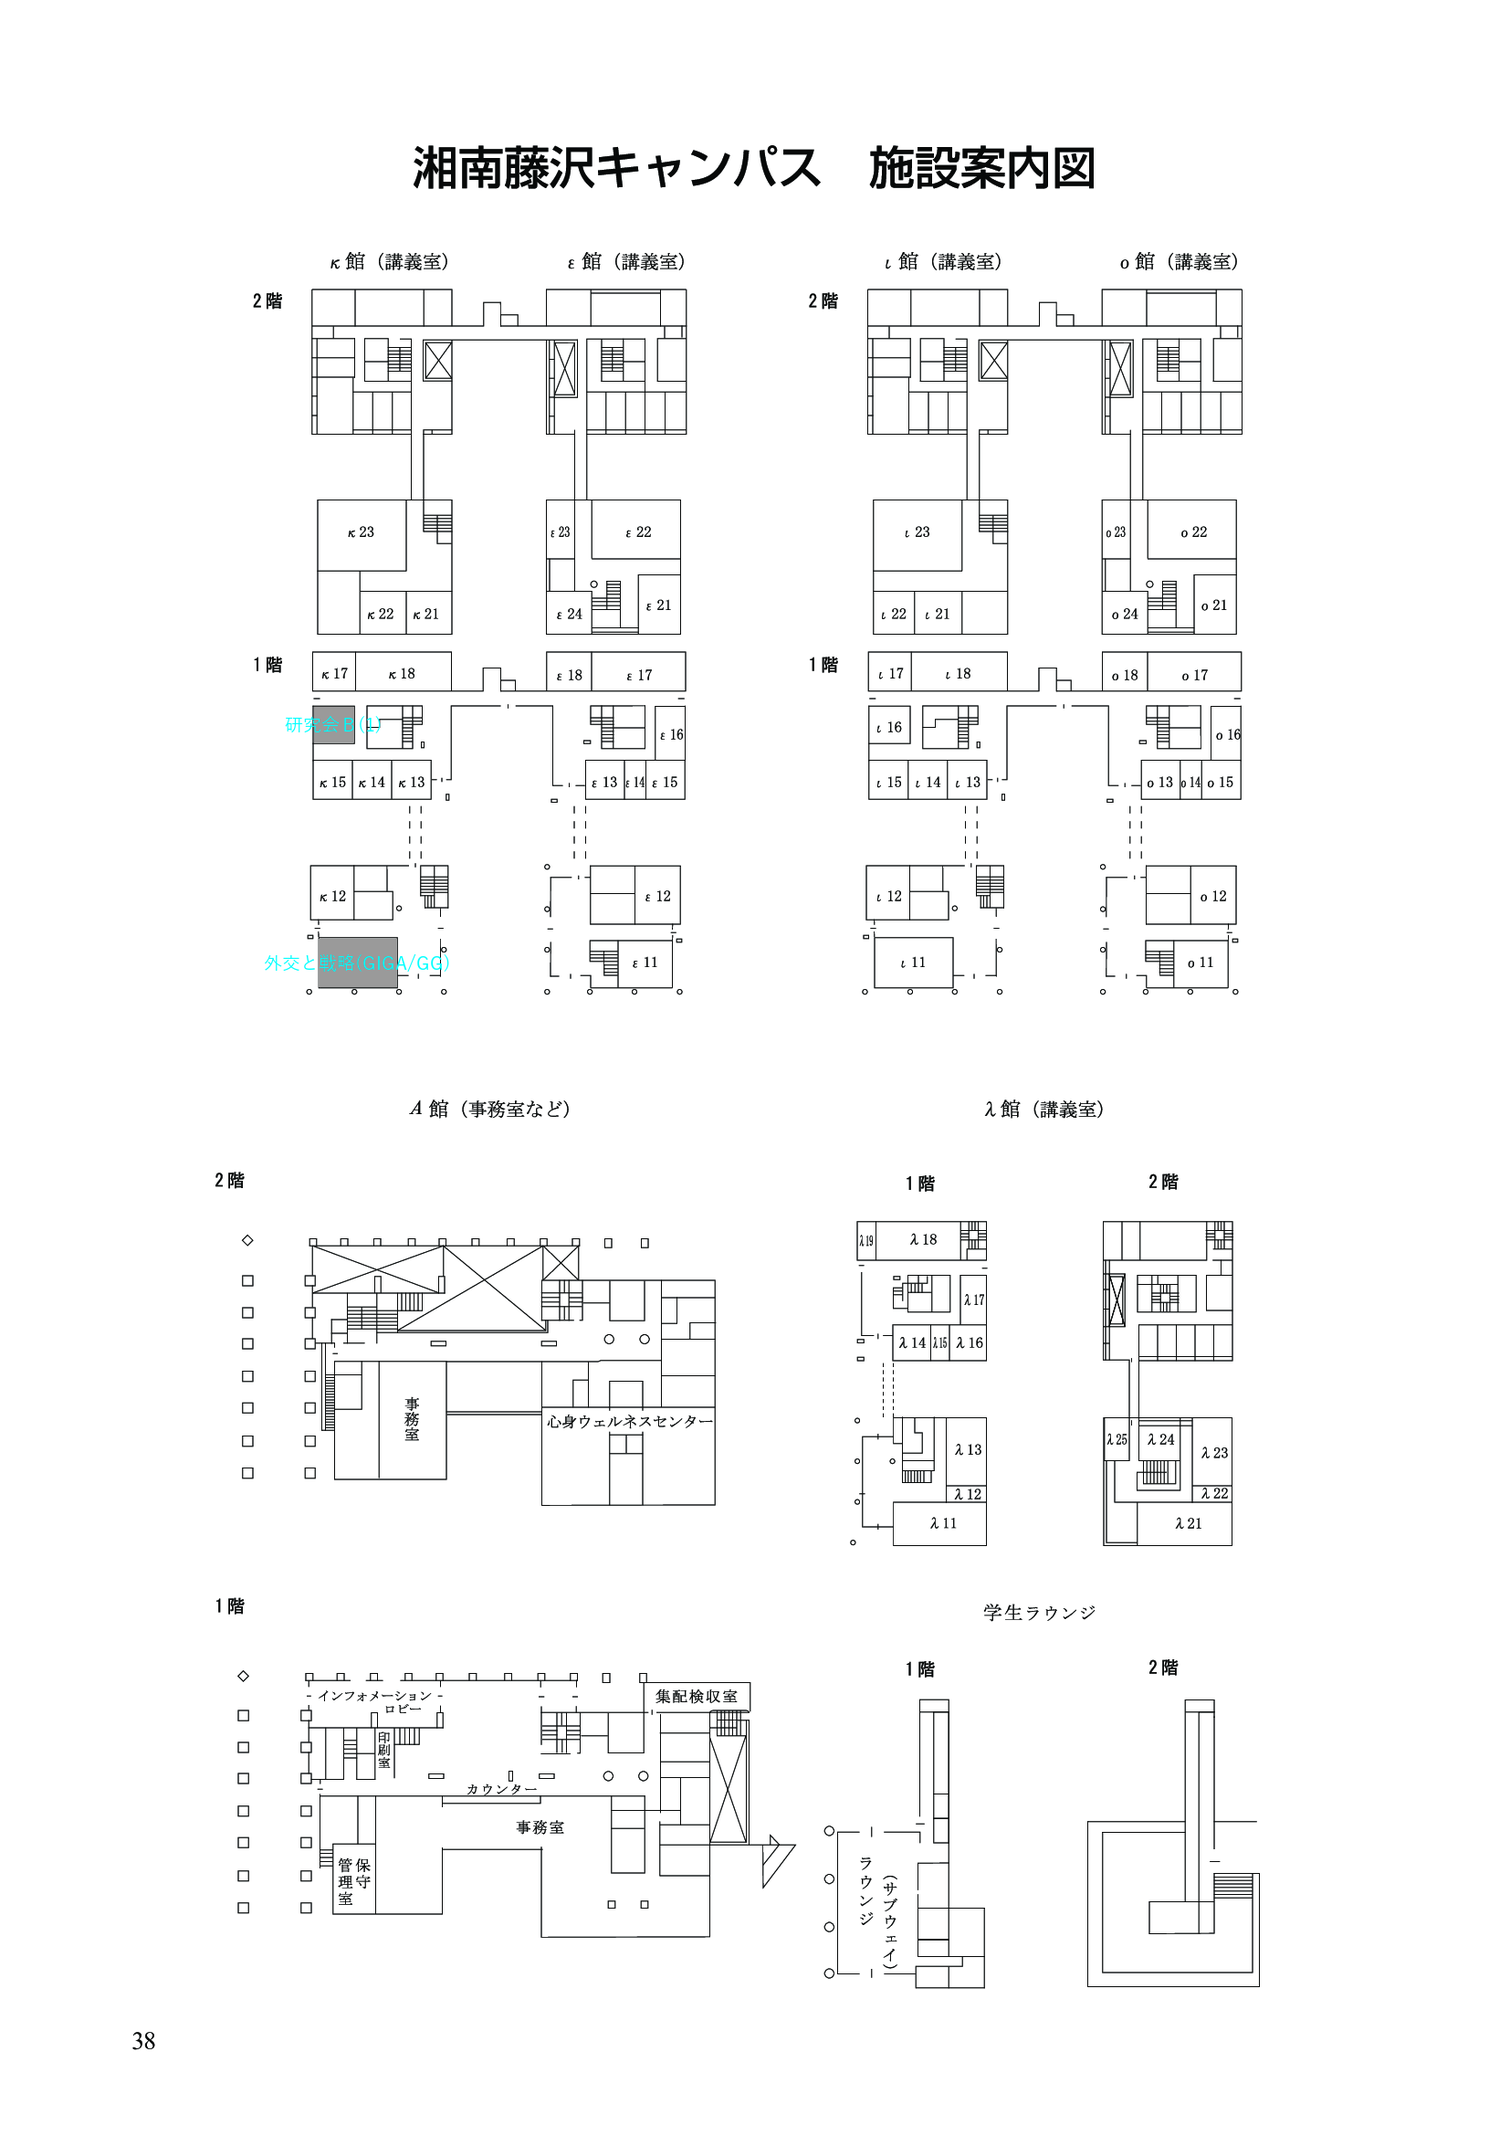
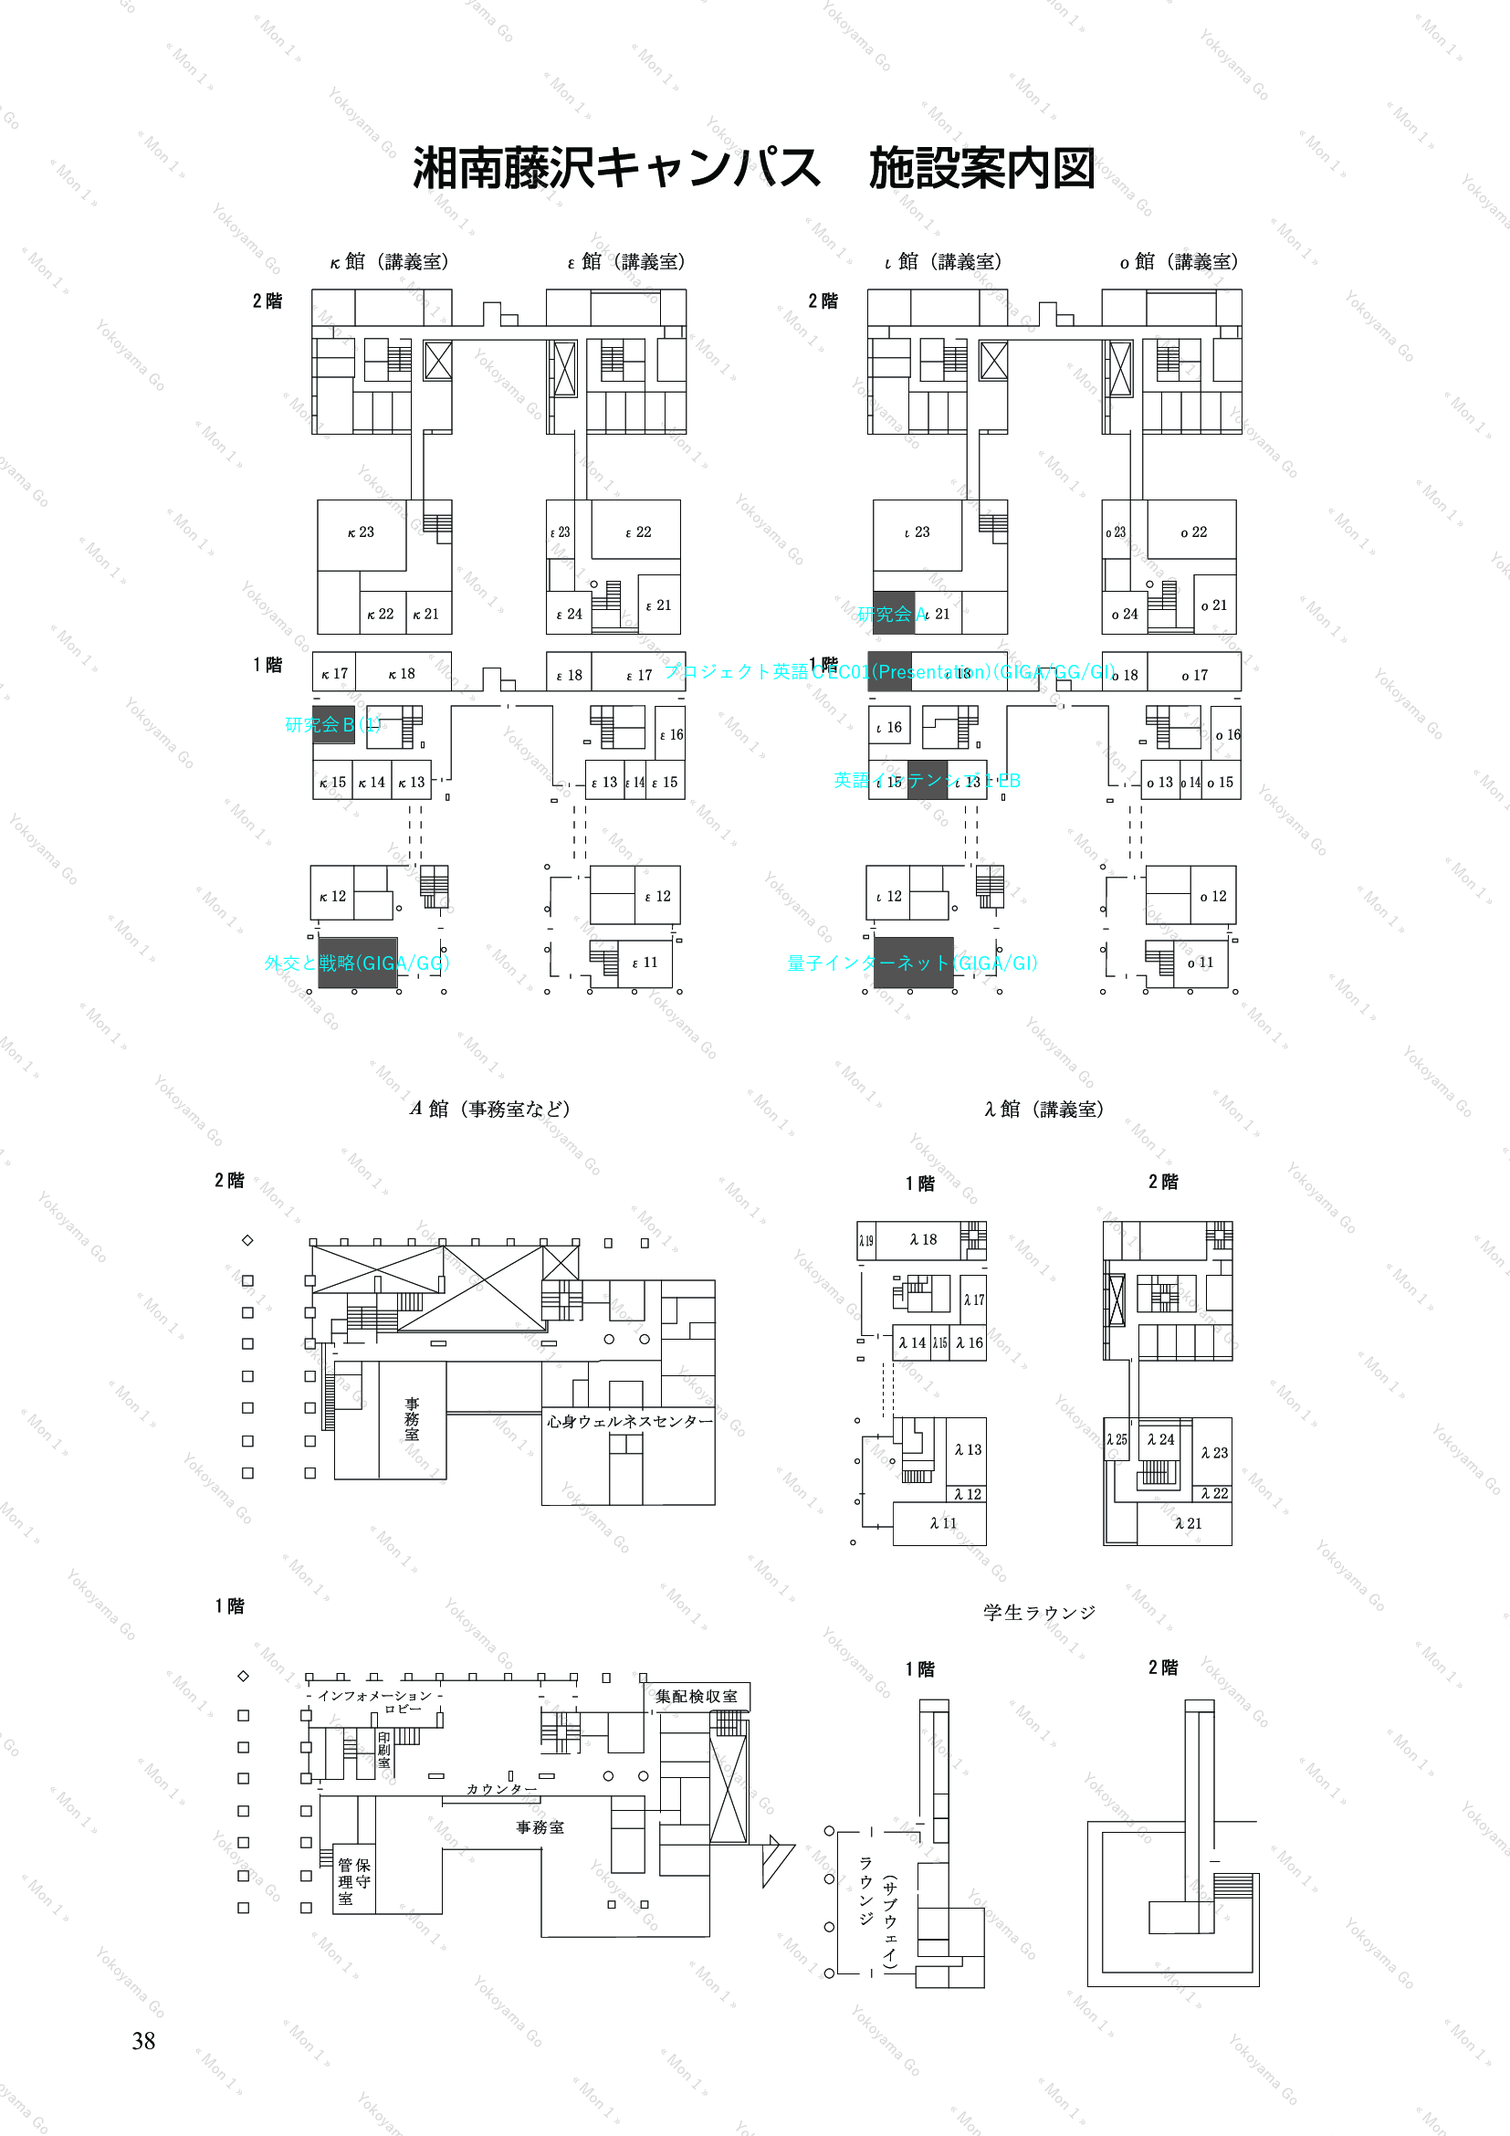
added features

diff --git a/generate_maps.py b/generate_maps.py
@@ -5,17 +5,34 @@ import re
 import tkinter as tk
 from tkinter import filedialog, messagebox
 from rich import print
+import math 
 
 
 # --- 1. 定数とファイル名設定 ---
 OUTPUT_DIR = 'sfc_kappa_maps'
 
 # 描画設定
-FILL_COLOR = (83, 83, 83, 150)  # 薄い黄色 (RGBA: 半透明)
-TEXT_COLOR = (0, 1258, 255)         # 黒
-FONT_SIZE = 20                 # 初期フォントサイズ (要調整)
+FILL_COLOR = (83, 83, 83, 150)  # 教室の塗りつぶし色
+TEXT_COLOR = (0,1258, 255  )        # 教室名の文字色 (黒に変更)
+FONT_SIZE = 20                  # 教室名のフォントサイズ
 
-# --- 2. 日本語フォント探索ロジック (前回と同じ) ---
+CUSTOM_STRING = "Yokoyama Go" 
+
+WATERMARK_FONT_SIZE = 16    # 透かしのフォントサイズ
+WATERMARK_ANGLE = -45         # 透かしの角度 (右肩上がり)
+WATERMARK_COLOR = (120, 120, 120, 80) # 透かしの色 (グレー, 31%の透明度)
+WATERMARK_SPACING_ZENKAKU = 15  # 透かし文字間のスペース（全角文字数）
+WATERMARK_LINE_SPACING = 6 # 透かし文字の縦のスペーシング
+
+# 曜日変換マップ
+DAY_JP_TO_EN = {
+    "月": "Mon", "火": "Tue", "水": "Wed", "木": "Thu", 
+    "金": "Fri", "土": "Sat", "日": "Sun", "他": "etc"
+}
+
+
+
+# --- 2. 日本語フォント探索ロジック ---
 def find_japanese_font():
     """
     Windows環境で一般的に利用可能な日本語フォントを探してパスとインデックスを返す
@@ -41,65 +58,47 @@ def find_japanese_font():
 GLOBAL_FONT_PATH, GLOBAL_FONT_INDEX = find_japanese_font()
 
 
-# --- 3. データ前処理関数 (この関数を修正) ---
-
+# --- 3. データ前処理関数 ---
 def preprocess_syllabus_data(df):
     """
     シラバスデータを「1行 = 1科目/1教室/1時限」の形式に分解・正規化する。
-    連番時限 (例: 火2,3) を個別の時限 (火2, 火3) に分解する。
     """
     records = []
-    # 欠損値を持つ行は除外
     df = df.dropna(subset=['教室', '曜日時限']).copy()
 
     for _, row in df.iterrows():
         
-        # --- (A) 曜日時限を個別の時限コードに分解 ---
+        # (A) 曜日時限を個別の時限コードに分解
         normalized_time_slots = []
-        # まず '/' で分割 (例: '火2,3/水4' -> ['火2,3', '水4'])
         time_groups = [g.strip() for g in row['曜日時限'].split('/')]
         
         for group in time_groups:
-            # 正規表現で曜日と時限番号を抽出 (例: '火2,3' -> ('火', '2,3'))
             match = re.match(r'([月火水木金土日他])(\d+(,\d+)*)', group)
             
             if match:
-                day = match.group(1) # 曜日
-                periods_str = match.group(2) # 時限連番 (例: '2,3' または '4')
-                
-                # 時限連番を ',' で分割 (例: '2,3' -> ['2', '3'])
+                day = match.group(1) 
+                periods_str = match.group(2) 
                 periods = [p.strip() for p in periods_str.split(',')]
                 
                 for period in periods:
-                    # 個別時限コードを生成 (例: '火2', '火3')
                     normalized_time_slots.append(f"{day}{period}")
         
-        # --- (B) 教室情報のパースと結合 ---
-
-        # 教室コードと時限の複合表記を抽出 (例: '火2:ο15, 水2:ι22')
+        # (B) 教室情報のパースと結合
         matches = re.findall(r'(\S+):(\S+)', row['教室'])
-        # 複合表記内の時限コードをキーとする辞書を作成 (例: {'火2': 'ο15'})
         room_time_pairs = {time_code: room_code for room_code, time_code in matches} 
 
-        # 時限の正規化リスト (normalized_time_slots) を使用してレコードを作成
         for ts in normalized_time_slots:
             room = None
             
-            # 1. 複合表記から探す
             if ts in room_time_pairs:
                 room = room_time_pairs[ts]
             else:
-                # 2. 単一教室コードのみが列挙されている場合
-                # ':''を含まない教室コードを抽出 (例: ['κ17'])
                 simple_rooms = [r.strip() for r in row['教室'].split(',') if ':' not in r]
                 
-                # 単一の教室コードのみがリストにある場合、その科目の全ての時限に使用すると仮定
                 if len(simple_rooms) == 1:
                     room = simple_rooms[0] 
-                
-                # その他の複雑なケース (複数教室・複数時限で対応が不明など) はスキップ (MVPスコープ外)
 
-            if room and room.strip(): # 教室コードが存在し、空でないことを確認
+            if room and room.strip(): 
                 records.append({
                     '科目名': row['科目名'],
                     '担当者名': row['担当者名'],
@@ -109,7 +108,8 @@ def preprocess_syllabus_data(df):
 
     return pd.DataFrame(records)
 
-# --- 4. ファイル選択ダイアログ関数 (前回と同じ) ---
+
+# --- 4. ファイル選択ダイアログ関数 ---
 def select_file(title, filetypes):
     root = tk.Tk()
     root.withdraw() 
@@ -126,10 +126,77 @@ def select_file(title, filetypes):
         
     return file_path
 
-# --- 5. メイン処理 (前回と同じロジックで実行) ---
 
+# ### ▼ 透かし機能追加 ▼ ###
+# --- 4.5. 透かしレイヤー生成関数 ---
+def create_watermark_layer(width, height, text_to_draw, font, color, angle, spacing_text):
+    """
+    指定されたテキストで埋め尽くされ、回転された透かしレイヤー（透明画像）を作成する
+    """
+    
+    # 1. 回転しても全体を覆えるよう、対角線より大きいサイズの透明レイヤーを作成
+    diagonal = int(math.sqrt(width**2 + height**2))
+    # 余裕を持たせる
+    large_size = int(diagonal * 1.5) 
+    
+    watermark_layer = Image.new('RGBA', (large_size, large_size), (0, 0, 0, 0))
+    draw = ImageDraw.Draw(watermark_layer)
+
+    # 2. テキストをグリッド状に敷き詰める
+    
+    # 1行のテキストを作成 (画面幅より十分長く)
+    bbox = draw.textbbox((0, 0), text_to_draw + spacing_text, font=font)
+    single_text_width = bbox[2] - bbox[0]
+    single_text_height = (bbox[3] - bbox[1]) * WATERMARK_LINE_SPACING # 行間のおおきさ
+    
+    # 横方向に必要な繰り返し回数
+    repeat_count = int(large_size / single_text_width) + 2
+    full_text_line = (text_to_draw + spacing_text) * repeat_count
+    
+    # 縦方向に敷き詰める
+    for y in range(0, large_size, int(single_text_height)):
+        # 奇数行と偶数行で開始位置をずらす
+        x_offset = (y // int(single_text_height)) % 2 * int(single_text_width / 2)
+        draw.text((-x_offset, y), full_text_line, font=font, fill=color)
+
+    # 3. レイヤーを回転させる
+    rotated_layer = watermark_layer.rotate(angle, resample=Image.BICUBIC)
+    
+    
+    # ### ▼▼▼ このブロックを差し替え ▼▼▼ ###
+    
+    # 4. 元の画像サイズ (width, height) に合わせて中央から切り出す
+    
+    # 回転後の画像中心
+    rotated_center_x = rotated_layer.width / 2
+    rotated_center_y = rotated_layer.height / 2
+    
+    # 切り出す領域の計算 (整数に丸める)
+    # まず左上 (left, top) を決める
+    left = int(rotated_center_x - width / 2)
+    top = int(rotated_center_y - height / 2)
+    
+    # サイズが (width, height) になるように右下 (right, bottom) を計算
+    # これにより、浮動小数点の丸め誤差を防ぐ
+    right = left + width
+    bottom = top + height
+    
+    # cropメソッドには整数のタプルを渡す
+    final_watermark = rotated_layer.crop((left, top, right, bottom))
+    
+    # ### ▲▲▲ 差し替えここまで ▲▲▲ ###
+
+
+    # 最終確認 (万が一サイズが違ったらリサイズする)
+    if final_watermark.size != (width, height):
+        print(f"警告: 透かしの切り出しサイズが一致しませんでした。強制リサイズします。 Base:({width}, {height}), WM:{final_watermark.size}")
+        final_watermark = final_watermark.resize((width, height), Image.LANCZOS)
+
+    return final_watermark
+
+# --- 5. メイン処理 ---
 if __name__ == '__main__':
-    print("SFC授業教室マップ生成スクリプト (κ棟MVP - 連番時限対応版) を開始します。")
+    print("SFC授業教室マップ生成スクリプト (κ棟MVP - 透かし対応版) を開始します。")
     
     if not os.path.exists(OUTPUT_DIR):
         os.makedirs(OUTPUT_DIR)
@@ -148,7 +215,6 @@ if __name__ == '__main__':
         print(f"データの読み込み中にエラーが発生しました: {e}")
         exit()
     
-    # 座標データの整形
     location_df = location_df.rename(columns={
         'classroom_name': '教室コード', 'beginning_x': 'x_min', 'beginning_y': 'y_min', 'end_x': 'x_max', 'end_y': 'y_max'
     })
@@ -160,11 +226,8 @@ if __name__ == '__main__':
     
     print("データのパース（分解）処理中...")
     processed_syllabus_df = preprocess_syllabus_data(syllabus_df)
-    kappa_syllabus_df = processed_syllabus_df[
-        processed_syllabus_df['教室コード'].str.startswith('κ', na=False)
-    ]
-    all_time_slots = kappa_syllabus_df['曜日時限'].unique()
-    
+    processed_syllabus_df_syllabus_df = processed_syllabus_df.copy()
+    all_time_slots = processed_syllabus_df_syllabus_df['曜日時限'].unique()    
     if len(all_time_slots) == 0:
         print("エラー: κ棟の授業が見つかりませんでした。")
         exit()
@@ -172,7 +235,7 @@ if __name__ == '__main__':
     print(f"検出されたユニークな時限: {len(all_time_slots)}件")
     print("-" * 30)
 
-    # 5-3. フォントの準備
+    # 5-3. フォントと画像の準備
     try:
         initial_base_img = Image.open(base_image_path).convert("RGBA")
     except Exception as e:
@@ -180,13 +243,17 @@ if __name__ == '__main__':
         exit()
     
     font = ImageFont.load_default()
+    watermark_font = ImageFont.load_default() # ### ▼ 透かし機能追加 ▼ ###
+
     if GLOBAL_FONT_PATH:
         try:
             if GLOBAL_FONT_INDEX is not None:
                 font = ImageFont.truetype(GLOBAL_FONT_PATH, FONT_SIZE, index=GLOBAL_FONT_INDEX)
+                watermark_font = ImageFont.truetype(GLOBAL_FONT_PATH, WATERMARK_FONT_SIZE, index=GLOBAL_FONT_INDEX) # ### ▼ 透かし機能追加 ▼ ###
                 print(f"日本語フォント: {os.path.basename(GLOBAL_FONT_PATH)} (Index: {GLOBAL_FONT_INDEX}) を使用します。")
             else:
                 font = ImageFont.truetype(GLOBAL_FONT_PATH, FONT_SIZE)
+                watermark_font = ImageFont.truetype(GLOBAL_FONT_PATH, WATERMARK_FONT_SIZE) # ### ▼ 透かし機能追加 ▼ ###
                 print(f"日本語フォント: {os.path.basename(GLOBAL_FONT_PATH)} を使用します。")
                 
         except IOError:
@@ -194,11 +261,16 @@ if __name__ == '__main__':
     else:
         print(" -> 警告: Windows標準の日本語フォントが見つかりませんでした。デフォルトフォントを使用するため、文字化けする可能性があります。")
 
+    # ### ▼ 透かし機能追加 ▼ ###
+    # 透かし用の固定スペース
+    spacing_text = "　" * WATERMARK_SPACING_ZENKAKU
+    # ### ▲ 透かし機能追加 ▲ ###
+
     # 5-4. 全時限のループと描画
     for time_slot in sorted(all_time_slots):
         print(f"処理中: {time_slot}")
 
-        current_schedule = kappa_syllabus_df[kappa_syllabus_df['曜日時限'] == time_slot]
+        current_schedule = processed_syllabus_df_syllabus_df[processed_syllabus_df_syllabus_df['曜日時限'] == time_slot]
         merged_df = pd.merge(current_schedule, location_df, on='教室コード', how='inner')
 
         if merged_df.empty:
@@ -206,7 +278,36 @@ if __name__ == '__main__':
             continue
 
         try:
+            # 1. 元の地図をコピー
             base_img = initial_base_img.copy()
+            
+            # ### ▼ 透かし機能追加 ▼ ###
+            # 2. 透かしレイヤーを描画
+            
+            # time_slot (例: "火2") を "tue 2" に変換
+            day_jp = time_slot[0]
+            period = time_slot[1:]
+            day_en = DAY_JP_TO_EN.get(day_jp, day_jp) # マップにない場合はそのまま使用
+            en_time_slot = f"{day_en} {period}"
+            
+            # 比率 (2/3, 1/3) に合わせてテキストを生成
+            watermark_base_text = f"« {en_time_slot} »         {CUSTOM_STRING}          « {en_time_slot} »          "
+
+            # 透かしレイヤーを生成
+            watermark_layer = create_watermark_layer(
+                base_img.width, base_img.height,
+                watermark_base_text,
+                watermark_font,
+                WATERMARK_COLOR,
+                WATERMARK_ANGLE,
+                spacing_text
+            )
+            
+            # 3. 元画像の上に透かしを合成 (alpha_composite)
+            base_img = Image.alpha_composite(base_img, watermark_layer)
+
+            # 4. 合成後の画像に、教室の塗りつぶしとテキストを描画
+            #    (これにより、透かしの上に教室情報が乗る)
             draw = ImageDraw.Draw(base_img)
             
             for _, row in merged_df.iterrows():
@@ -229,9 +330,10 @@ if __name__ == '__main__':
                 
                 draw.text((text_x, text_y), text, fill=TEXT_COLOR, font=font)
 
-            # 画像の保存
+            # 5. 画像の保存
             output_filename = os.path.join(OUTPUT_DIR, f"map_{time_slot.replace('/', '_')}.png")
-            base_img.save(output_filename)
+            # RGBAからRGBに変換して保存 (PNGだが透明度を統合)
+            base_img.convert('RGB').save(output_filename)
             print(f" -> {output_filename} を生成しました。")
 
         except Exception as e:

diff --git a/one-map-memo.md b/one-map-memo.md
@@ -1,0 +1,3 @@
+なんか全体の地図が一枚でほしい。
+
+位置はざっくりわかればいい。
